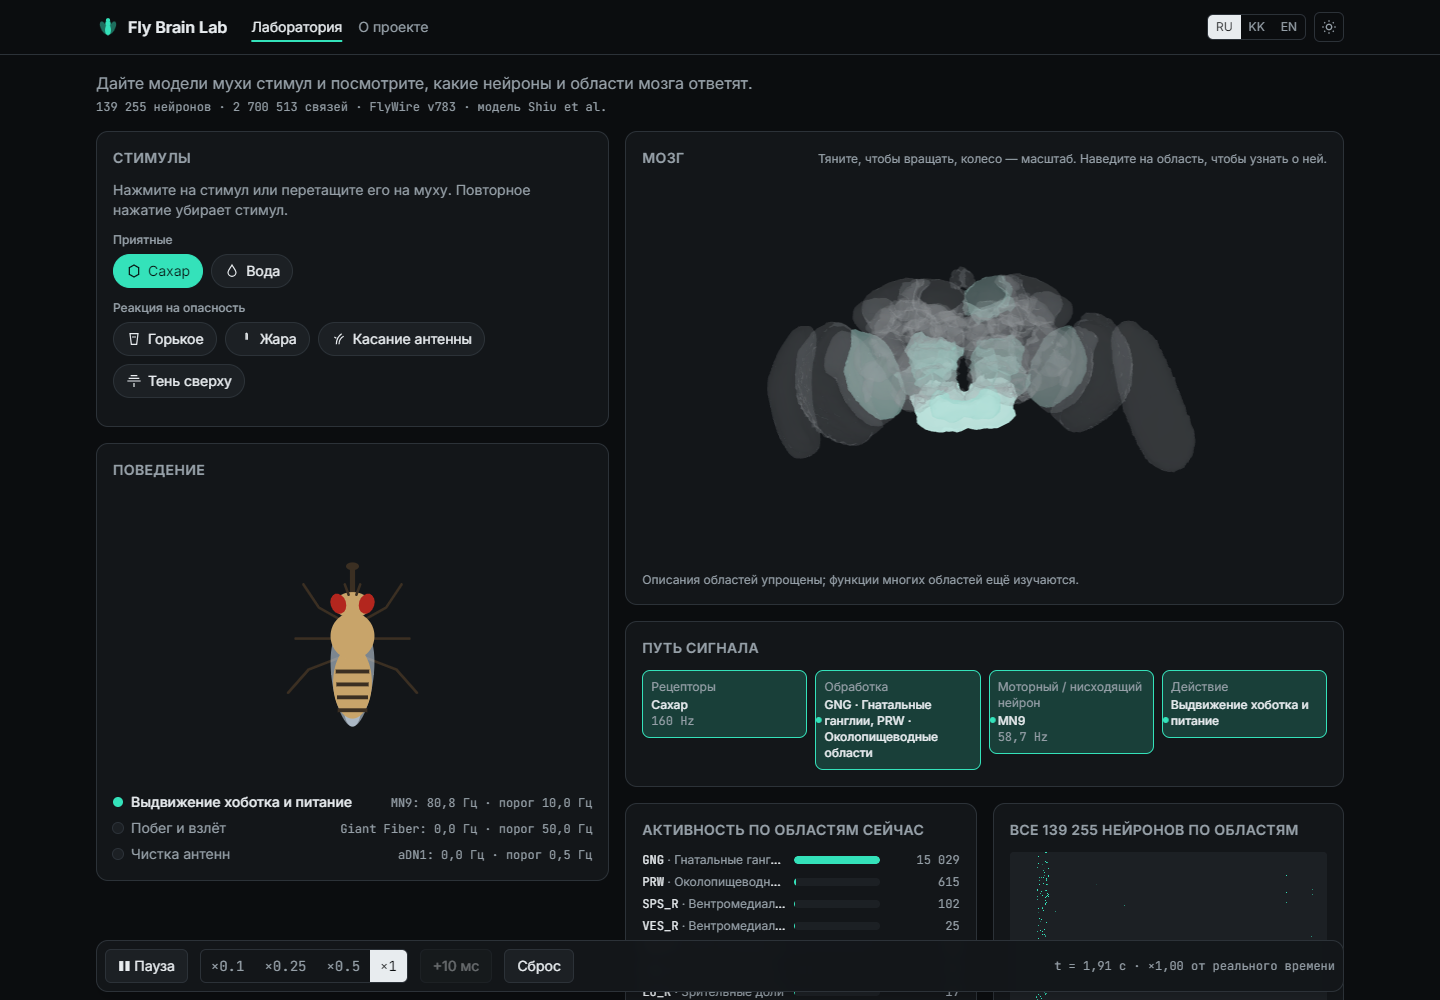
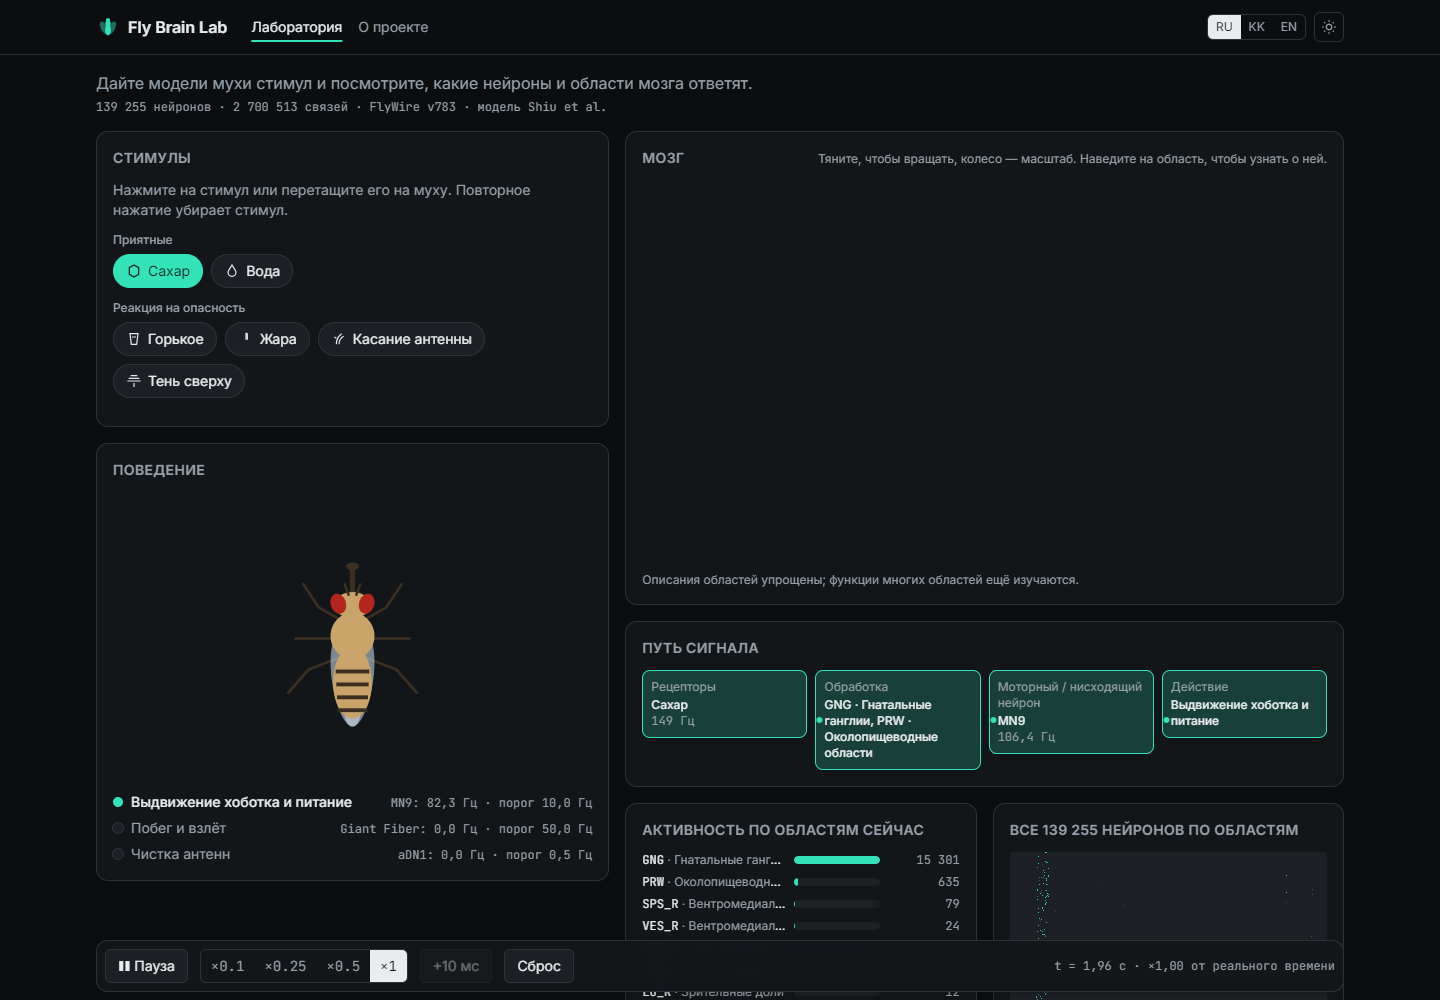
docs: changelog, status and licences for MVP deploy; screenshots

Changed region(s): [[0.5312, 0.248, 0.8438, 0.465], [0.6875, 0.713, 0.7188, 0.744]]

diff --git a/docs/STATUS.md b/docs/STATUS.md
@@ -1,19 +1,18 @@
 # Status
 
-Last update: 2026-10-27. Current step: **3 — MVP** (not started). Step 2 done.
+Last update: 2026-10-27. Current step: **STOP 2** (waiting for Nurik's review of the MVP). Steps 1–3 done.
 
-Decisions taken by Nurik at STOP 1: Shiu parameters; graph ≥5 synapses; unconfirmed stimuli/reactions removed;
-walking DNs (MDN, DNp09, DNa02) — pending his decision, not wired.
+Live: https://fly.noncalan.xyz (Vercel project `fly-brain-lab`, auto-deploy from `main`).
+Screenshots: `docs/screenshots/` (regenerate with `node tools/og/screens.mjs`).
 
-Step 2 result: see `CHANGELOG.md`. `npm test` → 32 passed, 1 skipped (calibration, run with `CALIBRATE=1`).
+Tests: `npm test` (32 Vitest), `npx playwright test` (13 e2e; `E2E_BASE_URL=https://fly.noncalan.xyz` for production).
 
-Next (step 3, MVP): design system (dark/light, Inter + mono, one accent), RU/KK/EN i18n with browser default,
-3D brain with FlyWire neuropil meshes (source and licence to check), region tooltips, signal-path animation,
-drag-to-fly stimuli, time controls polish, Vercel project `fly-brain-lab` + domain `fly.noncalan.xyz` (DNS check → STOP 2).
-Known perf gap: looming/heat run below real time (×0.15–0.3); options: dt 0.2 ms validated against golden tests,
-WASM, or SharedArrayBuffer multi-worker.
-
-Not deleted (hook blocked deletion; moved to `legacy/` instead): old app, caretaker server, iOS wrapper,
-`data/connectome.bin.gz`, `data/neuron_meta.json`. Delete when Nurik confirms.
-
-Large local inputs not in git: `shiu783.bin`, `shiu783_ids.json`, FlyWire annotations TSV (see `tools/*/README.md`).
+Known issues / next:
+- Load: connectome is 9.5 MB gzip; ~2 s here on a warm CDN, ~8 s expected at 10 Mbit/s. Option: delta + varint
+  encoding of CSR columns (estimate: roughly half the size, not measured yet).
+- Phone: sticky time bar takes ~15 % of the screen; fly panel is below the stimuli. Make the bar one compact row.
+- Heavy stimuli (looming, heat) run below real time (×0.15–0.3 measured in step 2); the UI shows the measured factor.
+- Software-rendered WebGL (no GPU) gives ~15 FPS; mobile auto-quality is planned for v2.
+- Kazakh strings need a native-speaker review.
+- Walking DNs (MDN, DNp09, DNa02) — waiting for Nurik's decision on extra literature sources.
+- Not deleted (hook blocked deletion): `legacy/`, old `data/connectome.bin.gz`, `data/neuron_meta.json`.

diff --git a/docs/CHANGELOG.md b/docs/CHANGELOG.md
@@ -1,5 +1,20 @@
 # Changelog
 
+## 2026-10-27 — Step 3: MVP, deployed to https://fly.noncalan.xyz
+
+- Lab page: stimuli (click or drag onto the fly), fly animation driven only by readout neurons, behaviour list with
+  live rates and thresholds, "model does not reproduce" notices (water; heat/bitter show no reaction).
+- 3D brain (react-three-fiber) from FlyWire neuropil meshes `neuropil_mesh_v141_v3` (78 regions, 510 kB,
+  `tools/build-data/build_meshes.py`); regions glow with live spike rate; hover shows name and role in RU/KK/EN.
+- Signal path receptor → processing → motor/descending neuron → action, lit by live rates.
+- Region bars, 139k-neuron activity map, time controls (pause, ×0.1/0.25/0.5/1, +10 ms, measured real-time factor).
+- Dark "lab" and light themes, Inter + JetBrains Mono, one accent colour, RU/KK/EN with browser default.
+- About page (what it is / is not, attribution, author, licence), SEO meta, OG image 1200×630, fly favicon.
+- Deploy: Vercel project `fly-brain-lab`, GitHub auto-deploy from `main`, previews from branches,
+  domain `fly.noncalan.xyz` (DNS on Vercel), content-hashed data served `immutable`, Vercel Web Analytics.
+- Playwright: every stimulus, drag-and-drop, 3 languages, mobile, no horizontal scroll, pause/step,
+  UI ≥30 FPS under the heaviest stimulus (GPU). 13/13 pass against production.
+
 ## 2026-10-27 — Step 2: Vite + React + TypeScript, new simulation core
 
 - New simulation core `src/sim/` (TypeScript): event-driven LIF with Shiu et al. equations and parameters, exact

diff --git a/docs/DATA_LICENSES.md b/docs/DATA_LICENSES.md
@@ -11,6 +11,8 @@ Checked 2026-10-27.
 | flywire_annotations (Schlegel et al.) | repository has no licence file | GitHub API `license: null` | Use as data with citation; ask the authors before any commercial use. |
 | Shiu et al. code `philshiu/Drosophila_brain_model` | MIT | `LICENSE` in repo | Equations, constants and ID lists may be reused with the copyright notice. |
 | Eon `eonsystemspbc/fly-brain` | GPL-2.0 | GitHub API | **Nothing copied.** Read only for comparison. |
+| FlyWire neuropil meshes `gs://flywire_neuropil_meshes/neuropils/neuropil_mesh_v141_v3` | FlyWire data terms (treated as CC BY-NC 4.0) | public bucket used by Codex | Shipped as a derived, quantised file. |
+| Codex `murthylab/codex` (neuropil ID → name map, region categories) | Apache-2.0 | GitHub API | Mapping copied into `build_meshes.py` and `src/content/regions.ts` with attribution. |
 | Fork `snedea/flybrain` | MIT | `license.md` | Kept, our copyright added below. |
 
 ## Decision
